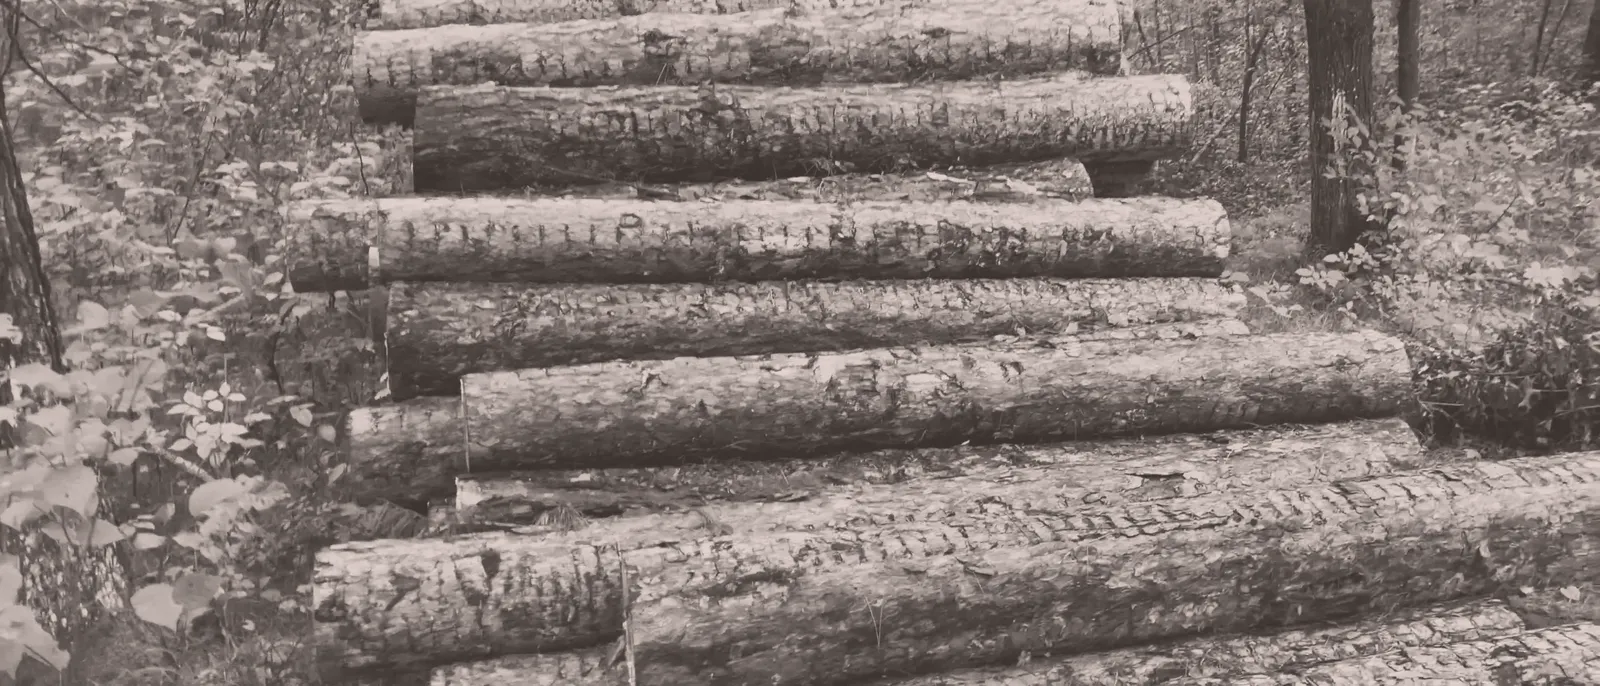
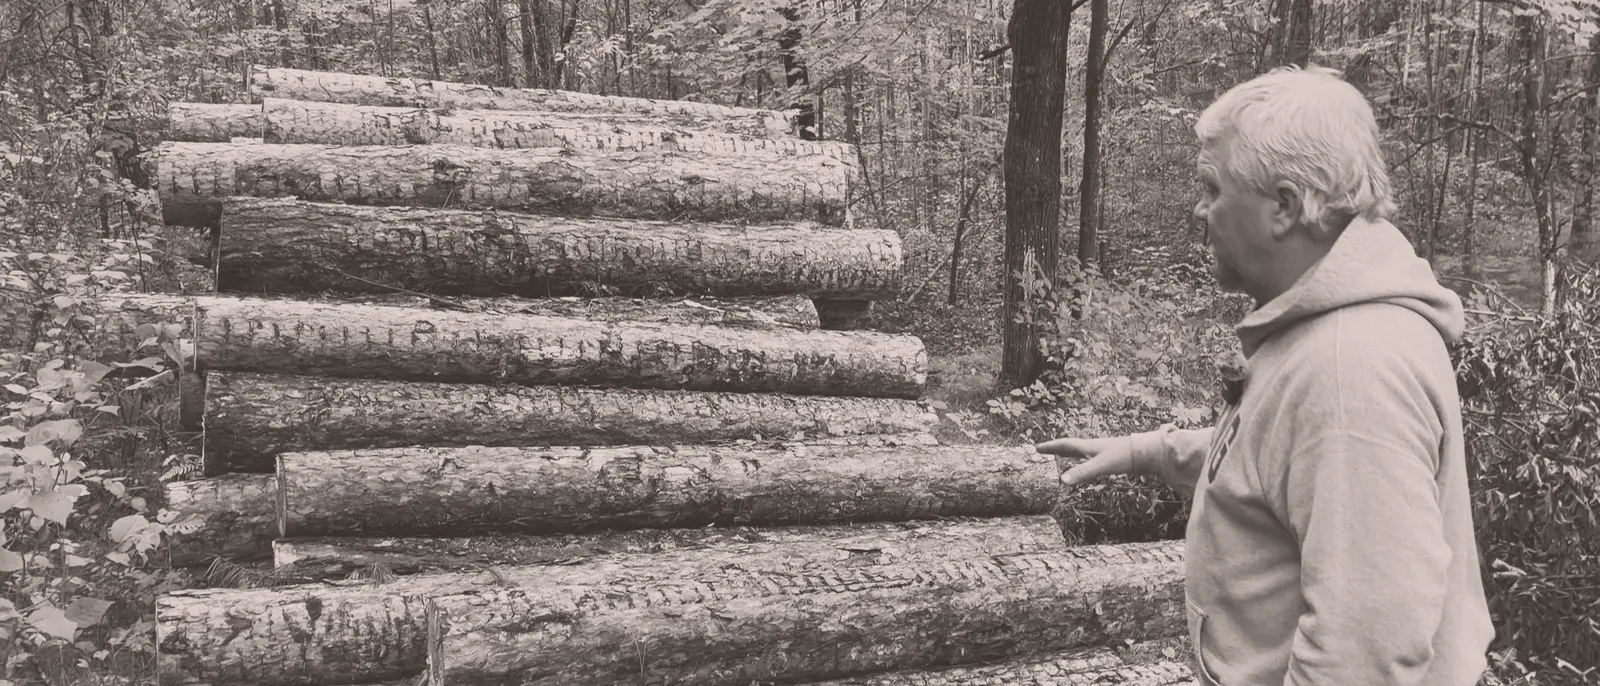
Put the sawyer on the page
Dad okayed showing his face: the Forge band is now Dad at his log pile
(IMG_4852), his quote carries a small portrait, and the shop photo is
the wider frame of him at the miter saw (IMG_4827). Hero crop nudged
toward the sawdust.

Claude-Session: https://claude.ai/code/session_01XdZ18HRAXiMfJyMPnD1hwj

diff --git a/index.html b/index.html
@@ -65,7 +65,7 @@ nav.links a:hover { color: var(--mv-text); }
 /* hero: text on oat, photo bleeding off the right edge with the Hero.dc fade */
 .hero { position: relative; min-height: clamp(580px, 82vh, 860px); display: flex; align-items: center; overflow: hidden; }
 .hero-photo { position: absolute; inset: 0 0 0 44%; }
-.hero-photo video { width: 100%; height: 100%; object-fit: cover; object-position: 76% 78%; display: block; background: var(--mv-oat-line); }
+.hero-photo video { width: 100%; height: 100%; object-fit: cover; object-position: 88% 76%; display: block; background: var(--mv-oat-line); }
 .hero-photo::before { content: ""; position: absolute; inset: 0; z-index: 1; background: linear-gradient(90deg, var(--mv-bg) 0%, color-mix(in srgb, var(--mv-bg) 0%, transparent) 30%); }
 .hero .wrap { position: relative; z-index: 2; width: 100%; }
 .hero-copy { max-width: 540px; padding-block: clamp(48px, 7vw, 96px); }
@@ -139,7 +139,8 @@ textarea { min-height: 96px; resize: vertical; }
 .story h2 { font-size: clamp(40px, 5.6vw, 72px); margin: 16px 0 24px; }
 .story p { margin: 0 0 16px; opacity: .88; }
 blockquote { margin: 34px 0 0; padding-left: 22px; border-left: var(--strand) solid var(--mv-rule); font: italic clamp(22px, 2.6vw, 28px)/1.35 var(--font-display); }
-blockquote cite { display: block; margin-top: 12px; font: 500 12px/1 var(--font-body); letter-spacing: .16em; text-transform: uppercase; font-style: normal; color: var(--mv-text-muted); }
+blockquote cite { display: flex; align-items: center; gap: 14px; margin-top: 18px; font: 500 12px/1 var(--font-body); letter-spacing: .16em; text-transform: uppercase; font-style: normal; color: var(--mv-text-muted); }
+.sawyer { width: 56px; height: 56px; object-fit: cover; border-radius: 2px; flex: none; }
 .chain { list-style: none; margin: 0; padding: 0; counter-reset: c; border-top: var(--strand) solid var(--mv-rule); }
 .chain li { display: grid; grid-template-columns: 54px 1fr 92px; align-items: start; gap: 8px 16px; padding: 22px 0; border-bottom: var(--hair) solid var(--mv-rule); counter-increment: c; }
 .chain li::before { content: counter(c, decimal-leading-zero); font: italic 22px var(--font-display); opacity: .6; }
@@ -320,14 +321,14 @@ footer .brand .mark { font-size: 44px; color: var(--mv-text); }
   </section>
 
   <section id="story" class="forge">
-    <figure class="wrap band-photo"><img src="assets/img/logpile.webp" srcset="assets/img/logpile-640.webp 640w, assets/img/logpile.webp 1600w" sizes="(max-width: 1160px) 100vw, 1160px" width="1600" height="686" alt="The Norway pine log pile, a semi load from a logger we know" loading="lazy" decoding="async"></figure>
+    <figure class="wrap band-photo"><img src="assets/img/logpile.webp" srcset="assets/img/logpile-640.webp 640w, assets/img/logpile.webp 1600w" sizes="(max-width: 1160px) 100vw, 1160px" width="1600" height="686" alt="The sawyer at his Norway pine log pile, a semi load from a logger we know" loading="lazy" decoding="async"></figure>
     <div class="wrap story">
       <div>
         <span class="eyebrow">The mill</span>
         <h2>One log. Nothing wasted.</h2>
         <p>Forty years of building, a bandsaw mill, and a pile of Norway pine from a logger we know. Every board here was pushed through the blade by hand, right on the property in Trego.</p>
         <p>The shop barn going up now is 24 by 24, engineered around 8-foot timbers because that's what the mill can cut. Its beams came off this same pile. Deck-rehab jobs bring home reclaimed lumber, and that wood becomes the next thing we build.</p>
-        <blockquote>“I love what I do. I love creating and building things with wood.”<cite>The sawyer</cite></blockquote>
+        <blockquote>“I love what I do. I love creating and building things with wood.”<cite><img class="sawyer" src="assets/img/sawyer.webp" width="320" height="320" alt="" loading="lazy" decoding="async">The sawyer</cite></blockquote>
       </div>
       <ol class="chain">
         <li><img class="spot" src="assets/img/ink-log.webp" alt="" width="360" height="250" loading="lazy"><b>The log</b><span>Squared into a cant, then sawn into lumber and timbers.</span></li>
@@ -342,7 +343,7 @@ footer .brand .mark { font-size: 44px; color: var(--mv-text); }
   <section id="shop">
     <div class="wrap">
       <figure class="wide-photo">
-        <img src="assets/img/shop.webp" srcset="assets/img/shop-640.webp 640w, assets/img/shop.webp 1400w" sizes="(max-width: 1160px) 100vw, 1160px" width="1400" height="933" alt="Hands guiding a miter saw through a pine board in the shop" loading="lazy" decoding="async">
+        <img src="assets/img/shop.webp" srcset="assets/img/shop-640.webp 640w, assets/img/shop.webp 1400w" sizes="(max-width: 1160px) 100vw, 1160px" width="1400" height="933" alt="The sawyer cutting a pine board at the miter saw in his shop" loading="lazy" decoding="async">
         <figcaption>In the shop. Every piece is cut and fitted by hand.</figcaption>
       </figure>
       <div class="sec-head">

diff --git a/src.html b/src.html
@@ -65,7 +65,7 @@ nav.links a:hover { color: var(--mv-text); }
 /* hero: text on oat, photo bleeding off the right edge with the Hero.dc fade */
 .hero { position: relative; min-height: clamp(580px, 82vh, 860px); display: flex; align-items: center; overflow: hidden; }
 .hero-photo { position: absolute; inset: 0 0 0 44%; }
-.hero-photo video { width: 100%; height: 100%; object-fit: cover; object-position: 76% 78%; display: block; background: var(--mv-oat-line); }
+.hero-photo video { width: 100%; height: 100%; object-fit: cover; object-position: 88% 76%; display: block; background: var(--mv-oat-line); }
 .hero-photo::before { content: ""; position: absolute; inset: 0; z-index: 1; background: linear-gradient(90deg, var(--mv-bg) 0%, color-mix(in srgb, var(--mv-bg) 0%, transparent) 30%); }
 .hero .wrap { position: relative; z-index: 2; width: 100%; }
 .hero-copy { max-width: 540px; padding-block: clamp(48px, 7vw, 96px); }
@@ -139,7 +139,8 @@ textarea { min-height: 96px; resize: vertical; }
 .story h2 { font-size: clamp(40px, 5.6vw, 72px); margin: 16px 0 24px; }
 .story p { margin: 0 0 16px; opacity: .88; }
 blockquote { margin: 34px 0 0; padding-left: 22px; border-left: var(--strand) solid var(--mv-rule); font: italic clamp(22px, 2.6vw, 28px)/1.35 var(--font-display); }
-blockquote cite { display: block; margin-top: 12px; font: 500 12px/1 var(--font-body); letter-spacing: .16em; text-transform: uppercase; font-style: normal; color: var(--mv-text-muted); }
+blockquote cite { display: flex; align-items: center; gap: 14px; margin-top: 18px; font: 500 12px/1 var(--font-body); letter-spacing: .16em; text-transform: uppercase; font-style: normal; color: var(--mv-text-muted); }
+.sawyer { width: 56px; height: 56px; object-fit: cover; border-radius: 2px; flex: none; }
 .chain { list-style: none; margin: 0; padding: 0; counter-reset: c; border-top: var(--strand) solid var(--mv-rule); }
 .chain li { display: grid; grid-template-columns: 54px 1fr 92px; align-items: start; gap: 8px 16px; padding: 22px 0; border-bottom: var(--hair) solid var(--mv-rule); counter-increment: c; }
 .chain li::before { content: counter(c, decimal-leading-zero); font: italic 22px var(--font-display); opacity: .6; }
@@ -320,14 +321,14 @@ footer .brand .mark { font-size: 44px; color: var(--mv-text); }
   </section>
 
   <section id="story" class="forge">
-    <figure class="wrap band-photo"><img src="assets/img/logpile.webp" srcset="assets/img/logpile-640.webp 640w, assets/img/logpile.webp 1600w" sizes="(max-width: 1160px) 100vw, 1160px" width="1600" height="686" alt="The Norway pine log pile, a semi load from a logger we know" loading="lazy" decoding="async"></figure>
+    <figure class="wrap band-photo"><img src="assets/img/logpile.webp" srcset="assets/img/logpile-640.webp 640w, assets/img/logpile.webp 1600w" sizes="(max-width: 1160px) 100vw, 1160px" width="1600" height="686" alt="The sawyer at his Norway pine log pile, a semi load from a logger we know" loading="lazy" decoding="async"></figure>
     <div class="wrap story">
       <div>
         <span class="eyebrow">The mill</span>
         <h2>One log. Nothing wasted.</h2>
         <p>Forty years of building, a bandsaw mill, and a pile of Norway pine from a logger we know. Every board here was pushed through the blade by hand, right on the property in Trego.</p>
         <p>The shop barn going up now is 24 by 24, engineered around 8-foot timbers because that's what the mill can cut. Its beams came off this same pile. Deck-rehab jobs bring home reclaimed lumber, and that wood becomes the next thing we build.</p>
-        <blockquote>“I love what I do. I love creating and building things with wood.”<cite>The sawyer</cite></blockquote>
+        <blockquote>“I love what I do. I love creating and building things with wood.”<cite><img class="sawyer" src="assets/img/sawyer.webp" width="320" height="320" alt="" loading="lazy" decoding="async">The sawyer</cite></blockquote>
       </div>
       <ol class="chain">
         <li><img class="spot" src="assets/img/ink-log.webp" alt="" width="360" height="250" loading="lazy"><b>The log</b><span>Squared into a cant, then sawn into lumber and timbers.</span></li>
@@ -342,7 +343,7 @@ footer .brand .mark { font-size: 44px; color: var(--mv-text); }
   <section id="shop">
     <div class="wrap">
       <figure class="wide-photo">
-        <img src="assets/img/shop.webp" srcset="assets/img/shop-640.webp 640w, assets/img/shop.webp 1400w" sizes="(max-width: 1160px) 100vw, 1160px" width="1400" height="933" alt="Hands guiding a miter saw through a pine board in the shop" loading="lazy" decoding="async">
+        <img src="assets/img/shop.webp" srcset="assets/img/shop-640.webp 640w, assets/img/shop.webp 1400w" sizes="(max-width: 1160px) 100vw, 1160px" width="1400" height="933" alt="The sawyer cutting a pine board at the miter saw in his shop" loading="lazy" decoding="async">
         <figcaption>In the shop. Every piece is cut and fitted by hand.</figcaption>
       </figure>
       <div class="sec-head">

diff --git a/README.md b/README.md
@@ -16,6 +16,7 @@ Landing page for The Woodshop, Dad's sawmill and woodshop in Trego, WI. One stat
 
 ## Images
 - `assets/img/` holds placeholder art from the House Hansen pipeline (`modern-viking-brand/.claude/skills/sketch`). Photos: Flux Klein (objects) and RealVis (hands), graded with `scripts/grade.sh natural` (hands: `forge`). Ink spots: Z-Image house hand, finished in oat ink. `art/shots.sh` regenerates every run; `assets/img/SOURCES.txt` maps each file to its run and seed.
+- Dad is fine being shown on the site (Levi, 2026-10-23).
 - Real footage goes in `raw/` (git-ignored; the phone files carry GPS, so only re-encoded frames and clips are published, with metadata stripped). Real footage is graded with the house LUT plus a green/red tame (`huesaturation`) because the mill is Kelly green and the tractor is orange; the recipe for every file is in `assets/img/SOURCES.txt`. The footer says "Some photos are illustrations" until the AI stand-ins (slab card, furniture cards, ink spots) are replaced.
 
 ## Editing copy
